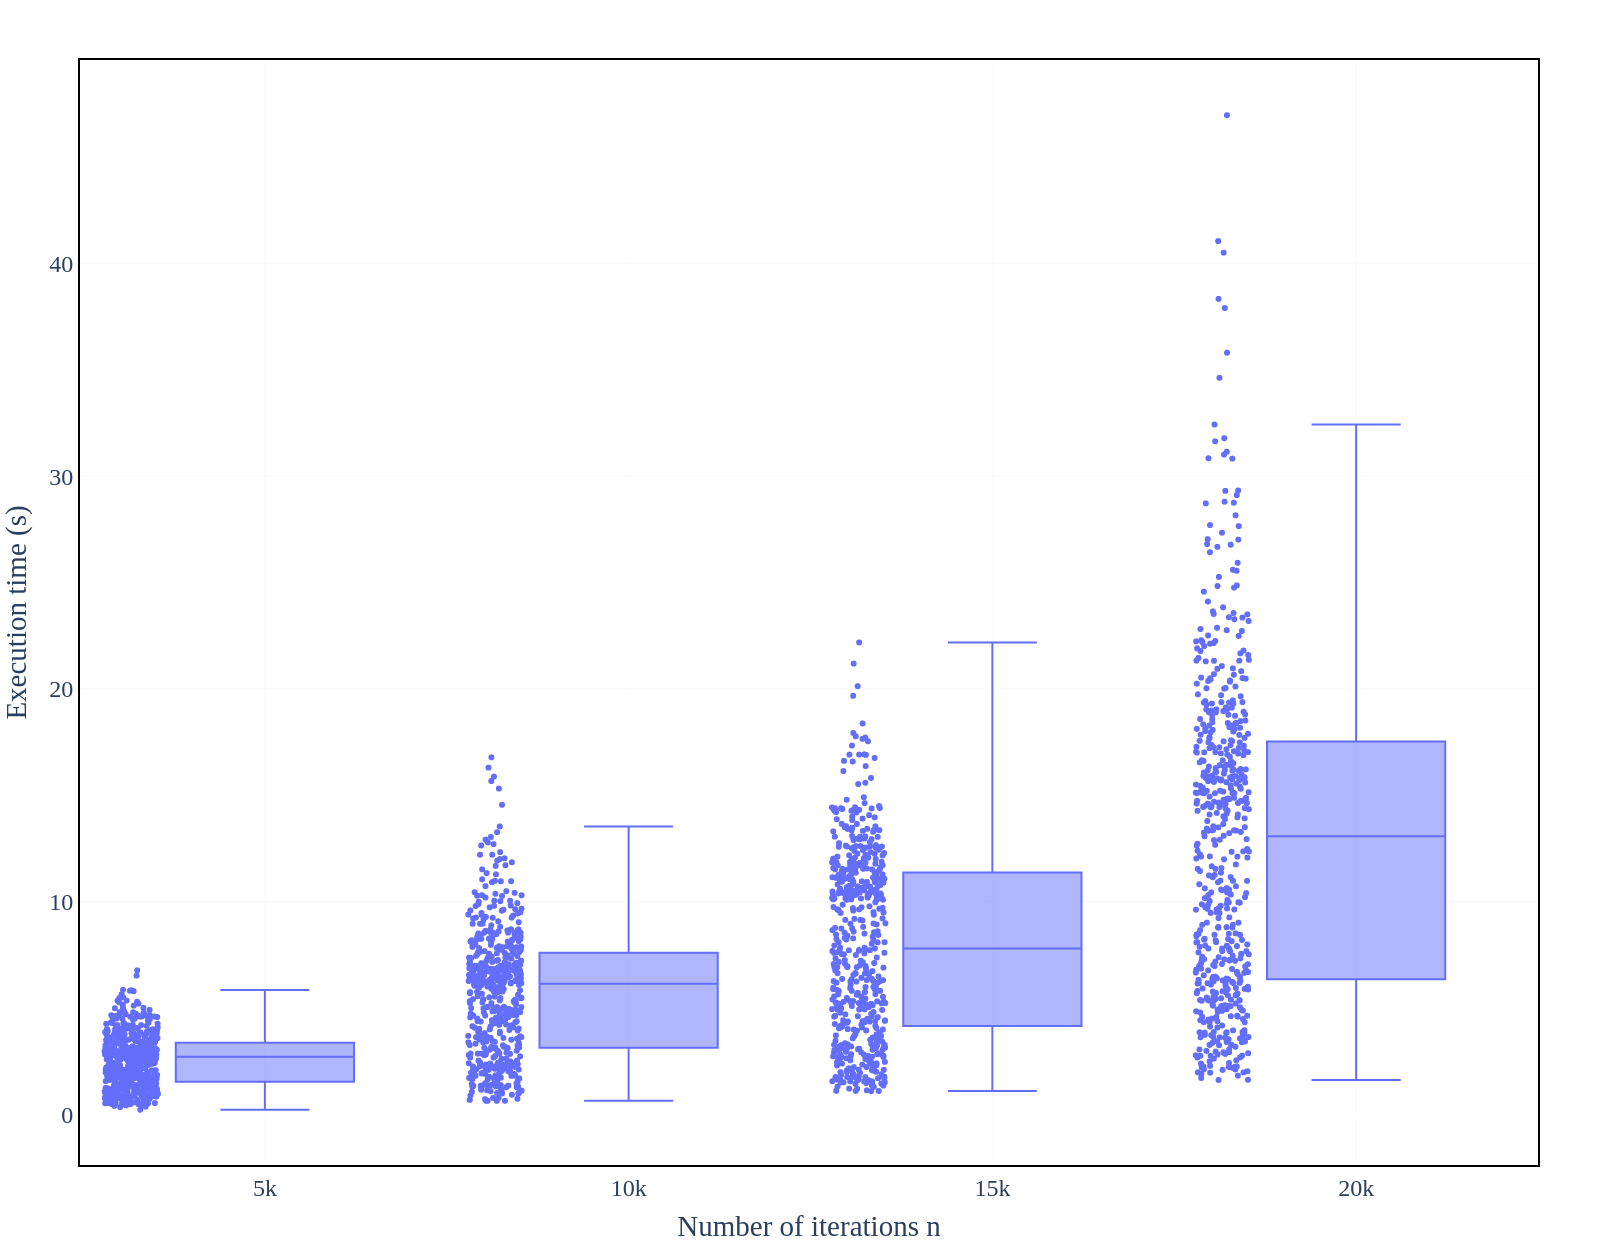
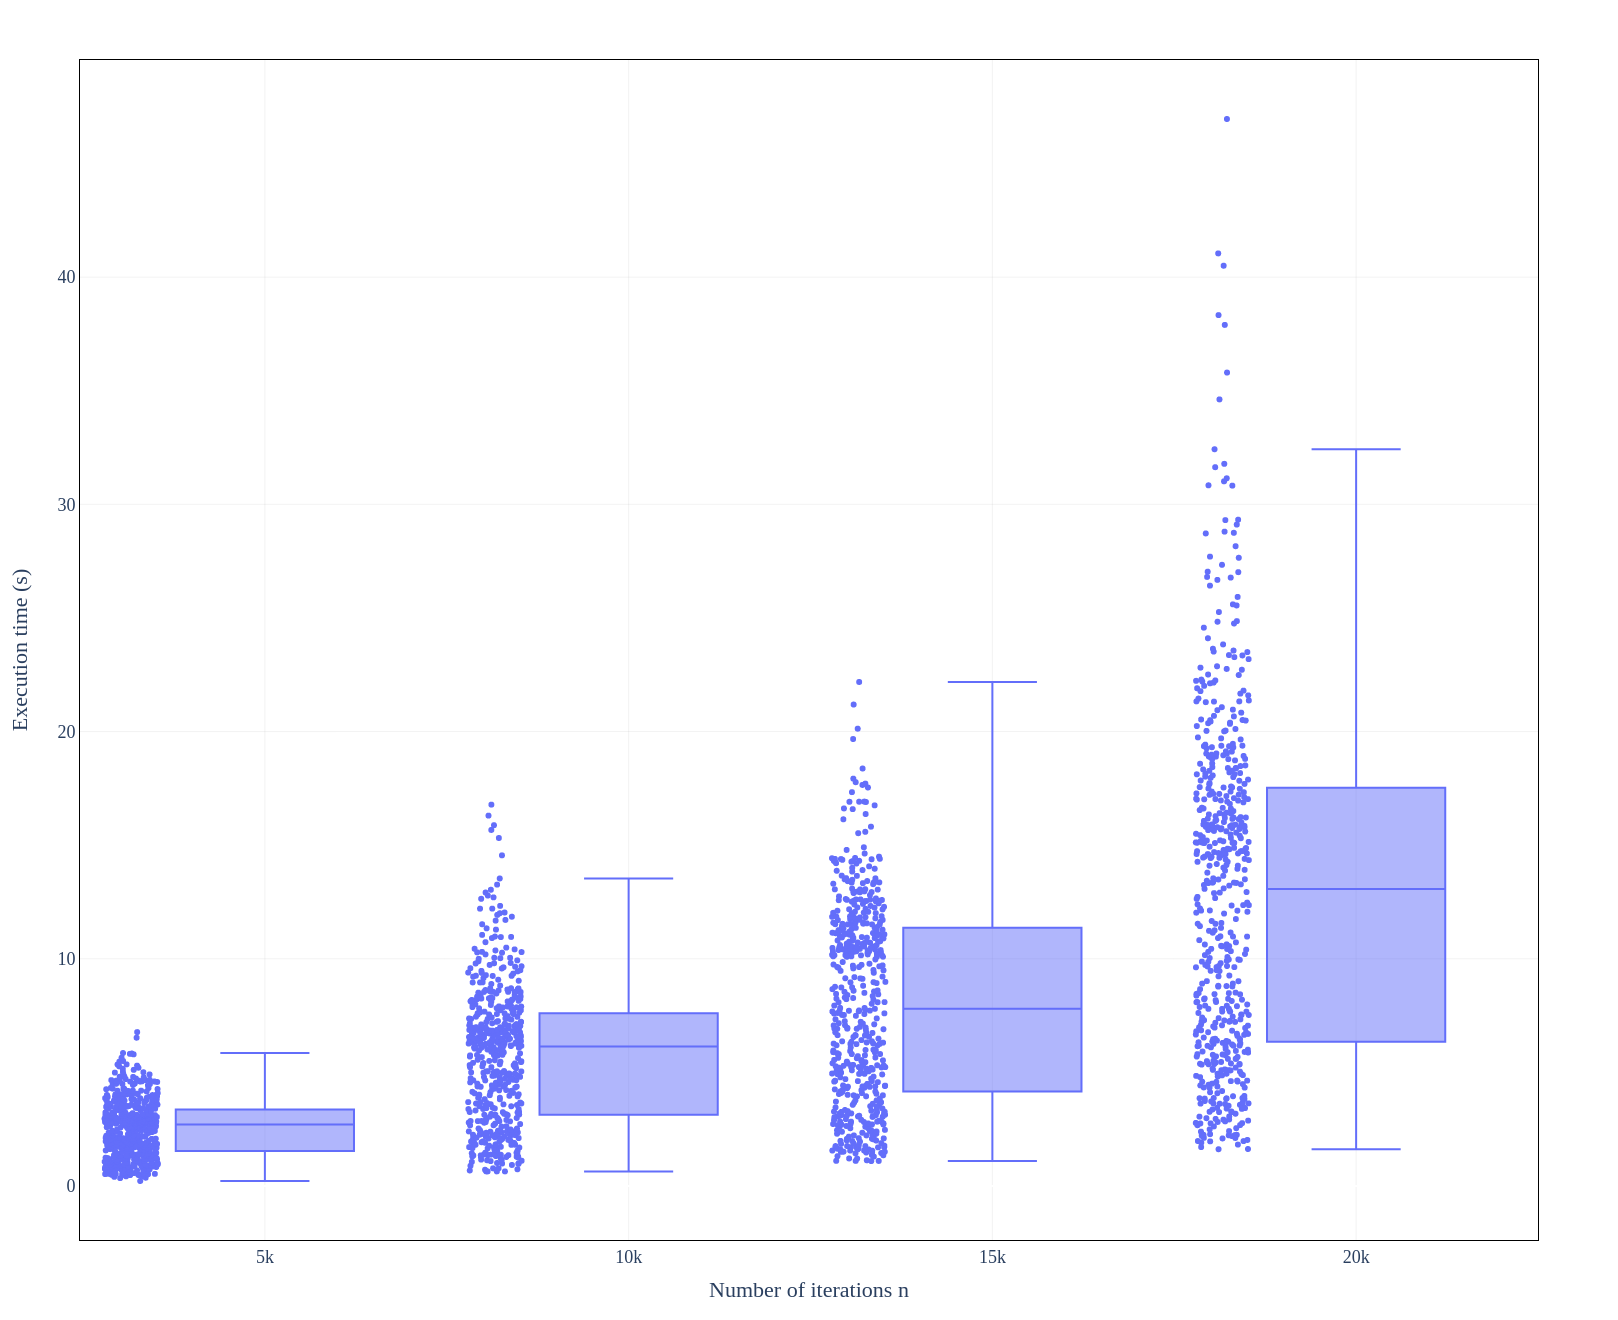
update box plot Multi-line description of commit, feel free to be detailed.
[Ticket: X]

diff --git a/SQLite/global_benchmark.py b/SQLite/global_benchmark.py
@@ -96,36 +96,54 @@ def fill_tables(conn) :
     cur.close()
     return cur
 
+
+def set_default_layout(fig):
+    fig.update_layout({
+        'font': {'family': "serif", 'size': 18},
+        'plot_bgcolor': 'rgba(0,0,0,0)',
+        'xaxis': {
+            'showgrid': True,
+            'linecolor': 'black',
+            'linewidth': 1,
+            'mirror': True,
+            'gridcolor': 'grey',
+            'gridwidth': 0.1,
+        },
+        'yaxis': {
+            'linecolor': 'black',
+            'linewidth': 1,
+            'gridcolor': 'grey',
+            'gridwidth': 0.1,
+            'mirror': True,
+            'exponentformat': 'power',
+        },
+    })
 if __name__ == '__main__':
     # Run from SQLite directory
     conn = sqlite3.connect("GLOBAL.db")
     # initialize_tables(conn)
     # fill_tables(conn)
 
-    # Begin to plot
-    layout = Layout(
-        paper_bgcolor='rgba(0,0,0,0)',
-        plot_bgcolor='rgba(0,0,0,0)'
-    )
 
     n_bp_df = pd.read_sql_query("SELECT * FROM box_plot_n_results ;", conn)
-    # fig = px.box(n_bp_df, x="n", y="time", points="all")
-    # fig.update_layout(layout)
-    # fig.show()
+
 
     p_bp_df = pd.read_sql_query("SELECT * FROM box_plot_p_results ;", conn)
     p_bp_df["p"] = p_bp_df["p"]/100
 
 
-    # fig = px.box(p_bp_df,
-    #     x="p",
-    #     y="time",
-    #     points="all",
-    #     labels=dict(
-    #         time="Execution time (s)",
-    #         p="Trade-off parameter p"
-    #     )
-    #     )
+    fig = px.box(p_bp_df,
+        x="p",
+        y="time",
+        points="all",
+        labels=dict(
+            time="Execution time (s)",
+            p="Trade-off parameter p"
+        )
+        )
+    set_default_layout(fig)
+    fig.show()
+
     fig = px.box(n_bp_df,
         x="n",
         y="time",
@@ -135,32 +153,7 @@ if __name__ == '__main__':
             n="Number of iterations n"
         )
         )
-    
-    fig.update_yaxes( # the y-axis is in dollars
-        ticksuffix=""
-    )
+    set_default_layout(fig)
 
-    fig.update_layout( # customize font and legend orientation & position
-        font_family="Palatino",
-        font_size=24,
-        legend=dict(
-            title="", orientation="h", y=1, yanchor="bottom", x=0.5, xanchor="center"
-        ),
-        paper_bgcolor='rgba(0,0,0,0)',
-        plot_bgcolor='rgba(0,0,0,0)'
-    )
-    fig.update_xaxes(showline=True,
-        linewidth=2,
-        linecolor='black',
-        mirror=True,
-        showgrid=True,
-        gridwidth=0.05,
-        gridcolor='Gray')
-    fig.update_yaxes(showline=True,
-        linewidth=2,
-        linecolor='black',
-        mirror=True,
-        showgrid=True,
-        gridwidth=0.05,
-        gridcolor='Gray')
+
     fig.show()
